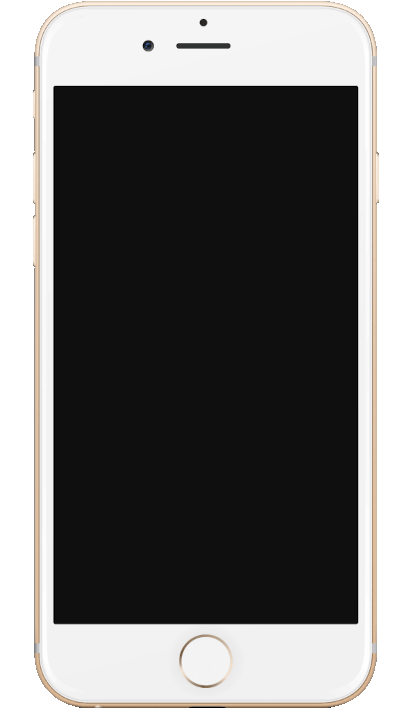
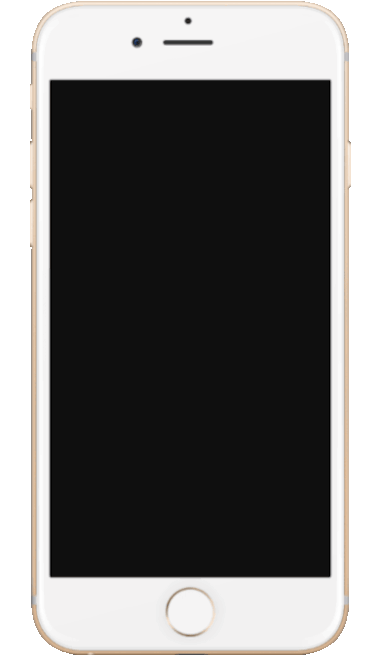
update

Changed region(s): [[0.8974, 0.0606, 0.9263, 0.9394], [0.1158, 0.1212, 0.1447, 0.8788]]

diff --git a/social.html b/social.html
@@ -13,15 +13,14 @@
         <section id="telefone">
             <iframe src="./home.html" frameborder="0" name="tela" id="tela">
                 Seu navegador não é compatível com isso
-            </iframe>
-            
+            </iframe>           
         </section>
         <section id="redes sociais">
-            <a href="./home.html" target="tela" target="tela"><img src="imagens/logo-home.jpg" alt="logo-home"></a><br>
+            <a href="./home.html" target="tela" target="tela"><img src="imagens/logo-home.jpg" alt="logo-home"></a>
 
-            <a href="https://github.com/LuizSantos45"><img src="./imagens/GitHub-Mark.png" alt="GitHub-Mark"></a><br>
+            <a href="./github.html" target="tela"><img src="./imagens/GitHub-Mark.png" alt="GitHub-Mark"></a>
 
-            <a href="./youtube.html" target="tela"><img src="./imagens/logo-youtube.jpg" alt="logo-youtube"></a><br>
+            <a href="./youtube.html" target="tela"><img src="./imagens/logo-youtube.jpg" alt="logo-youtube"></a>
         </section>
     </main>
 </body>

diff --git a/estilo/style.css b/estilo/style.css
@@ -35,14 +35,13 @@ section#telefone {
     background-repeat: no-repeat;
 }
 
-section#tela, iframe {
+iframe#tela {
     position: relative;
-    top: 85px;
+    top: 79px;
     left: 50px;
-    width: 309px;
-    height: 542px;
+    width: 280px;
+    height: 499px;
 }
-
 section#redes-sociais {
     text-align: right;
 }
@@ -52,7 +51,7 @@ section#redes-sociais, img {
     box-sizing: border-box;
     box-shadow: 2px 4px 6px #00000042;
     margin: 6px;
-    width: 45px;
+    width: 40px;
 }
 
 section#redes-sociais, img:hover {

diff --git a/github.html b/github.html
@@ -1,0 +1,14 @@
+<!DOCTYPE html>
+<html lang="pt-br">
+<head>
+    <meta charset="UTF-8">
+    <meta http-equiv="X-UA-Compatible" content="IE=edge">
+    <meta name="viewport" content="width=device-width, initial-scale=1.0">
+    <title>Document</title>
+    <link rel="stylesheet" href="estilo/social.css">
+</head>
+<body>
+    <img src="./imagens/github.png" alt="github">
+    
+</body>
+</html>

diff --git a/home.html b/home.html
@@ -17,7 +17,7 @@
         }
 
         body {
-            background: #000000 url("https://wmstatic.global.ssl.fastly.net/ml/271120-f-580375f8-8538-4c5d-86f7-710b811e0e6d.png?width=346&height=614") no-repeat top center;
+            background: #000000 url("./imagens/tela-home.jpg") no-repeat top center;
             background-size: cover;
             width: 100vw;
             height: 100vh;
